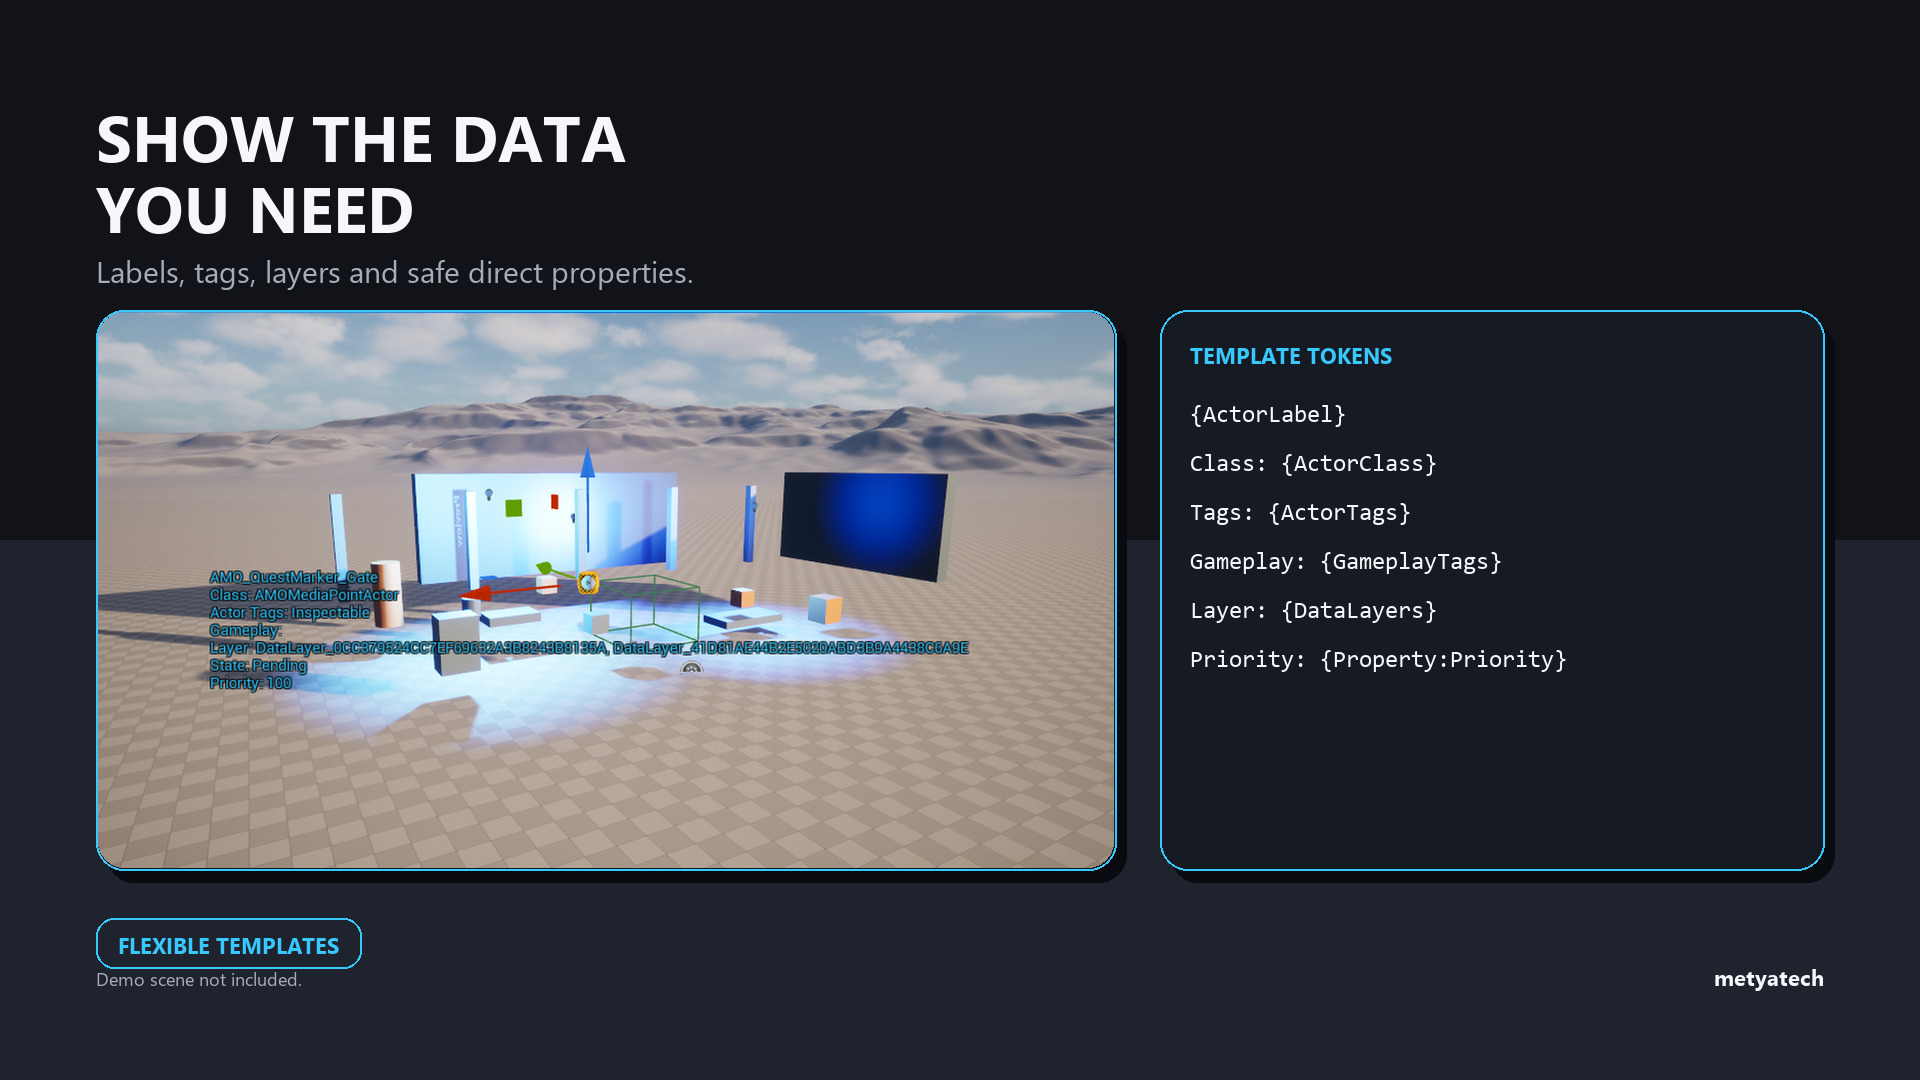
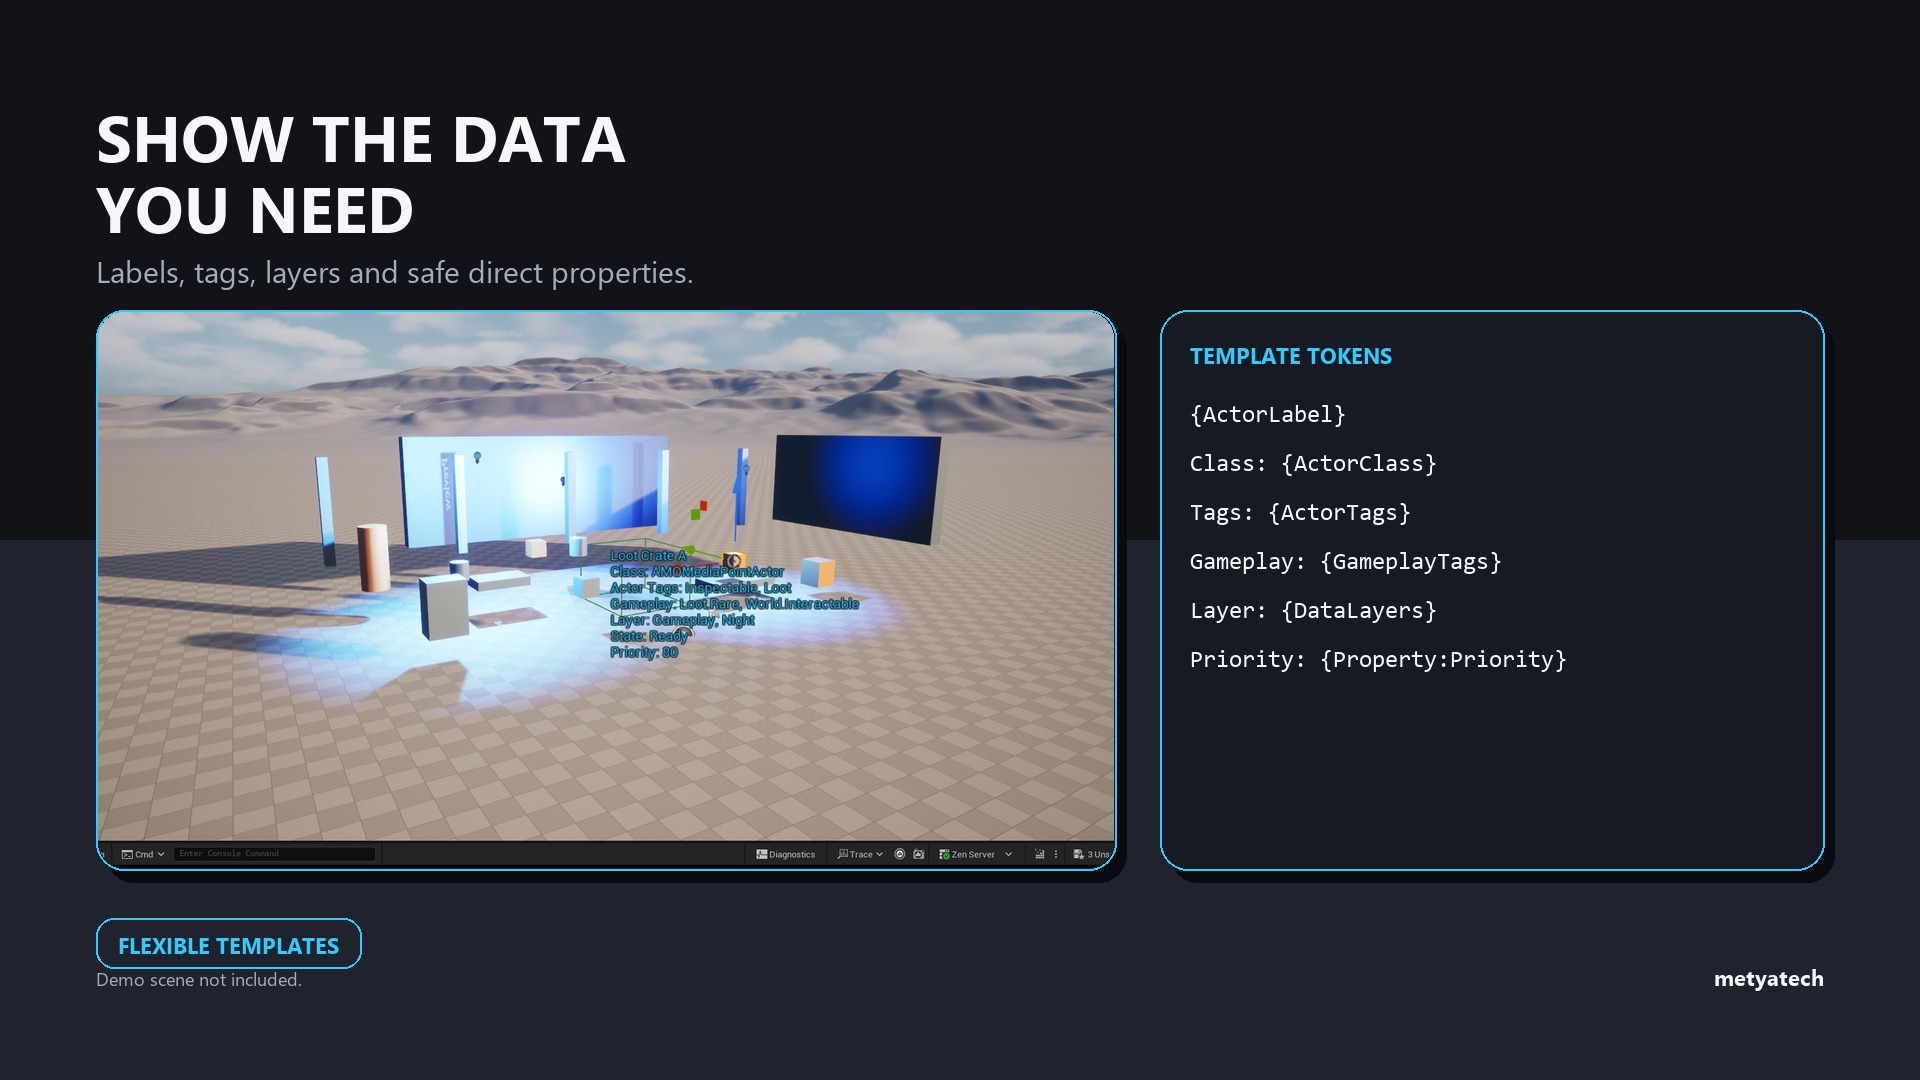
docs: fix Gameplay Tags proof in Fab media

Changed region(s): [[0.0312, 0.275, 0.5938, 0.7028], [0.0312, 0.7639, 0.5938, 0.825]]

diff --git a/Marketing/Fab/source/generate-fab-media.py b/Marketing/Fab/source/generate-fab-media.py
@@ -16,6 +16,7 @@ REVIEW_ROOT = FAB_ROOT / "review"
 RAW_ROOT = REPO_ROOT / ".verification" / "fab-media" / "raw"
 LAYOUT_PATH = FAB_ROOT / "source" / "media-layout.json"
 SOURCE_HEAD_PATH = REPO_ROOT / ".verification" / "fab-media" / "source-head.txt"
+VALIDATION_PATH = RAW_ROOT / "all-tokens-validation.json"
 MAX_JPEG_BYTES = 2_800_000
 MAX_TOTAL_BYTES = 20_000_000
 
@@ -475,33 +476,59 @@ def parse_source_head() -> tuple[str, str]:
     return values["Plugin HEAD"], ".verification/fab-media/host/ActorMetadataOverlaySmoke.uproject"
 
 
+def validate_all_tokens_capture() -> None:
+    if not VALIDATION_PATH.is_file():
+        raise FileNotFoundError(f"Missing host validation JSON: {VALIDATION_PATH}")
+    with VALIDATION_PATH.open(encoding="utf-8") as stream:
+        validation = json.load(stream)
+    if validation.get("implementsGameplayTagAssetInterface") is not True:
+        raise ValueError("Host validation does not prove IGameplayTagAssetInterface")
+    if sorted(validation.get("ownedGameplayTags", [])) != ["Loot.Rare", "World.Interactable"]:
+        raise ValueError("Host validation Gameplay Tags do not match the required pair")
+    if sorted(validation.get("actorTags", [])) != ["Inspectable", "Loot"]:
+        raise ValueError("Host validation actor tags do not match the required pair")
+    if sorted(validation.get("dataLayers", [])) != ["Gameplay", "Night"]:
+        raise ValueError("Host validation Data Layers do not match the required pair")
+    if validation.get("state") != "Ready":
+        raise ValueError("Host validation state is not Ready")
+    if validation.get("priority") != 80:
+        raise ValueError("Host validation priority is not 80")
+    if validation.get("expectedGameplayLine") != "Gameplay: Loot.Rare, World.Interactable":
+        raise ValueError("Host validation Gameplay line is not exact")
+    if validation.get("visualCheck") is not True:
+        raise ValueError("Host validation visualCheck must be true after visual inspection")
+    if validation.get("rawCapture") != "all-tokens.png":
+        raise ValueError("Host validation rawCapture must be all-tokens.png")
+
+
 def write_manifest(finals: list[Path], source_head: str, capture_project: str) -> None:
     metadata = {item["filename"]: item for item in MEDIA}
     entries = []
     for final in finals:
         item = metadata[final.name]
         with Image.open(final) as opened:
-            entries.append(
-                {
-                    "order": item["order"],
-                    "filename": final.name,
-                    "role": item["role"],
-                    "title": item["title"].replace("\n", " "),
-                    "tagline": item["tagline"],
-                    "proof": item["proof"],
-                    "width": opened.width,
-                    "height": opened.height,
-                    "format": "JPEG",
-                    "mode": opened.mode,
-                    "sizeBytes": final.stat().st_size,
-                    "sha256": sha256(final),
-                    "sourceCaptures": [
-                        f".verification/fab-media/raw/{name}"
-                        for name in item.get("sources", [item.get("source")])
-                        if name
-                    ],
-                }
-            )
+            entry = {
+                "order": item["order"],
+                "filename": final.name,
+                "role": item["role"],
+                "title": item["title"].replace("\n", " "),
+                "tagline": item["tagline"],
+                "proof": item["proof"],
+                "width": opened.width,
+                "height": opened.height,
+                "format": "JPEG",
+                "mode": opened.mode,
+                "sizeBytes": final.stat().st_size,
+                "sha256": sha256(final),
+                "sourceCaptures": [
+                    f".verification/fab-media/raw/{name}"
+                    for name in item.get("sources", [item.get("source")])
+                    if name
+                ],
+            }
+            if item["order"] == 6:
+                entry["validationEvidence"] = ".verification/fab-media/raw/all-tokens-validation.json"
+            entries.append(entry)
     manifest = {
         "productName": "Actor Metadata Overlay",
         "productVersion": "2.0.0",
@@ -525,6 +552,7 @@ def write_manifest(finals: list[Path], source_head: str, capture_project: str) -
 
 def main() -> None:
     source_head, capture_project = parse_source_head()
+    validate_all_tokens_capture()
     required_sources = sorted(
         {
             name

diff --git a/Marketing/Fab/README.md b/Marketing/Fab/README.md
@@ -25,6 +25,8 @@ python Marketing/Fab/source/generate-fab-media.py
 
 The JSON-driven generator reads `source/media-layout.json`, validates the seven real raw captures at least 2560x1440, writes exactly six 1920x1080 JPEGs to `final/`, writes the three review images to `review/`, and regenerates `media-manifest.json`. JPEG output starts at quality 92 with optimization and 4:4:4 subsampling; quality is lowered by 2 only when necessary, down to 84, to keep each final image under 2.8 MB. The six-image total must remain under 20 MB.
 
+Generating `final/06-template-tokens.jpg` requires the Host Project validation record at `.verification/fab-media/raw/all-tokens-validation.json`; the generator fails unless it proves the required interface, Gameplay Tags, actor tags, Data Layers, state, priority, exact Gameplay line, raw capture name, and completed visual check.
+
 Review outputs are:
 
 - `review/contact-sheet.jpg` — all six finals with filenames shown below each image.
